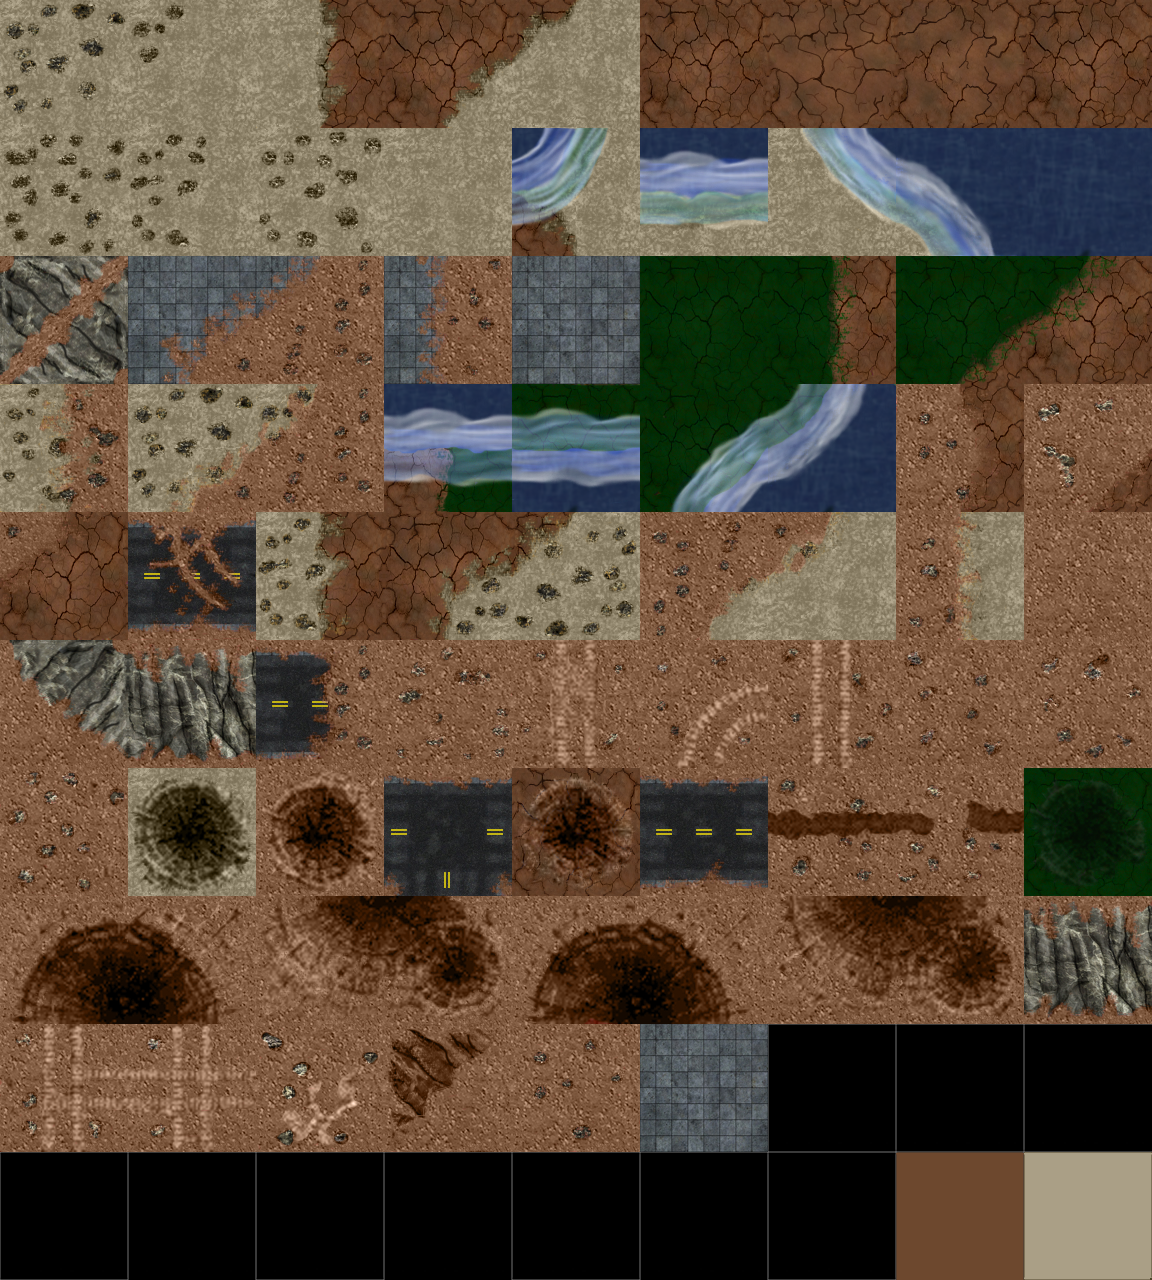
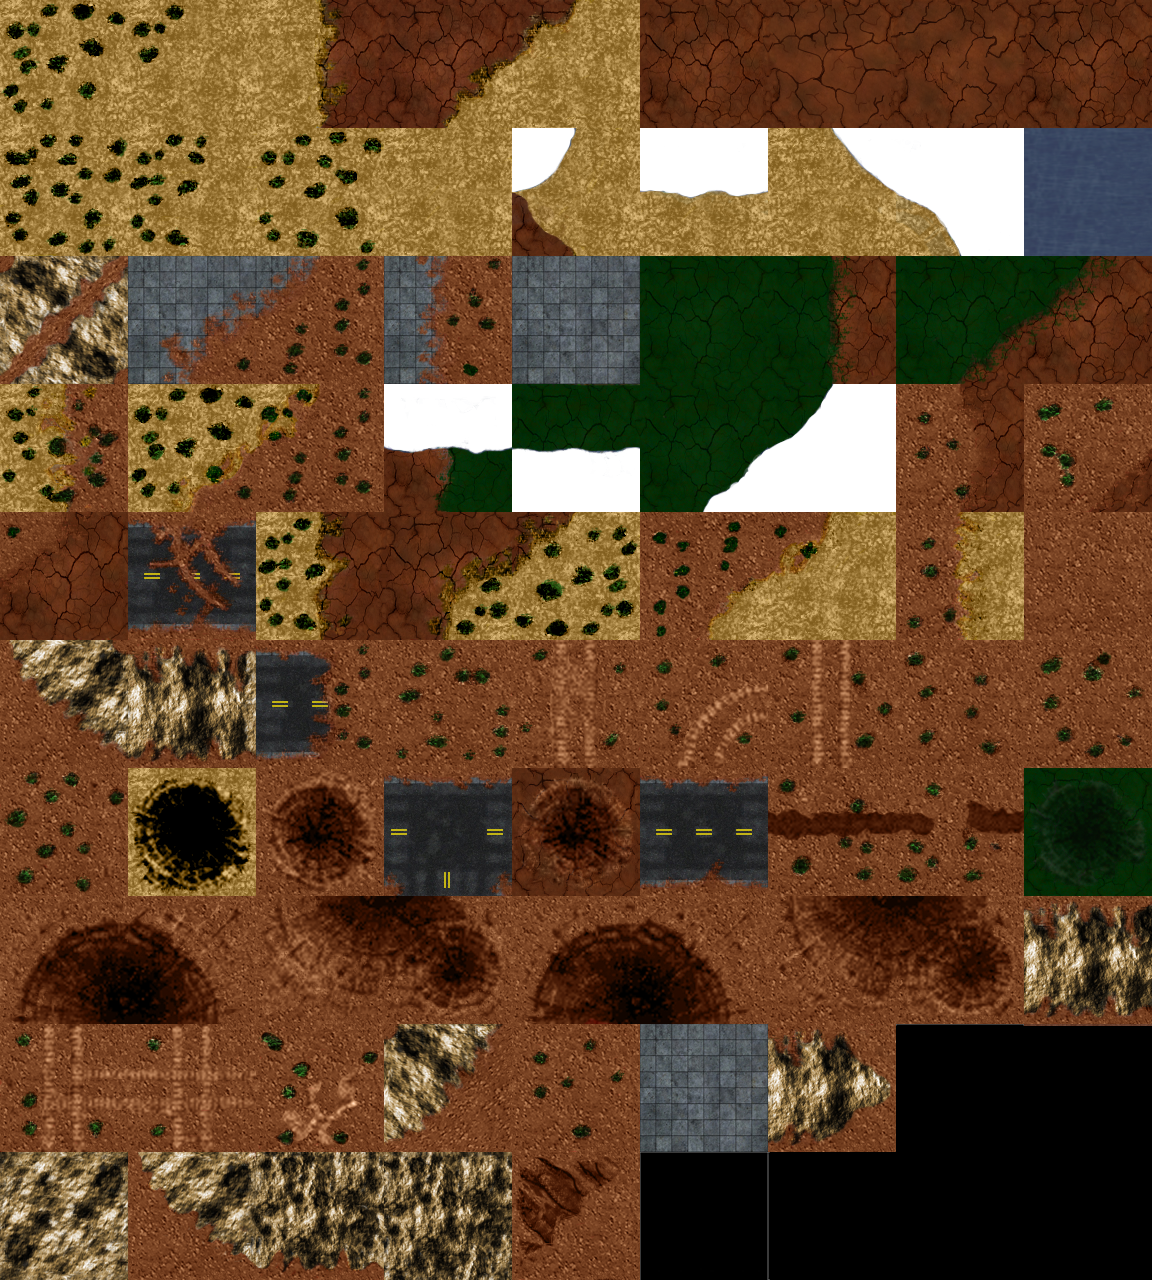
Integrated new tileset from grimandmandy.
git-svn-id: svn+ssh://svn.gna.org/svn/warzone/trunk@397 4a71c877-e1ca-e34f-864e-861f7616d084

diff --git a/src/revision.h b/src/revision.h
@@ -1,1 +1,1 @@
-#define SVN_REVISION "Revision 37M"
+#define SVN_REVISION "Revision 38M"
